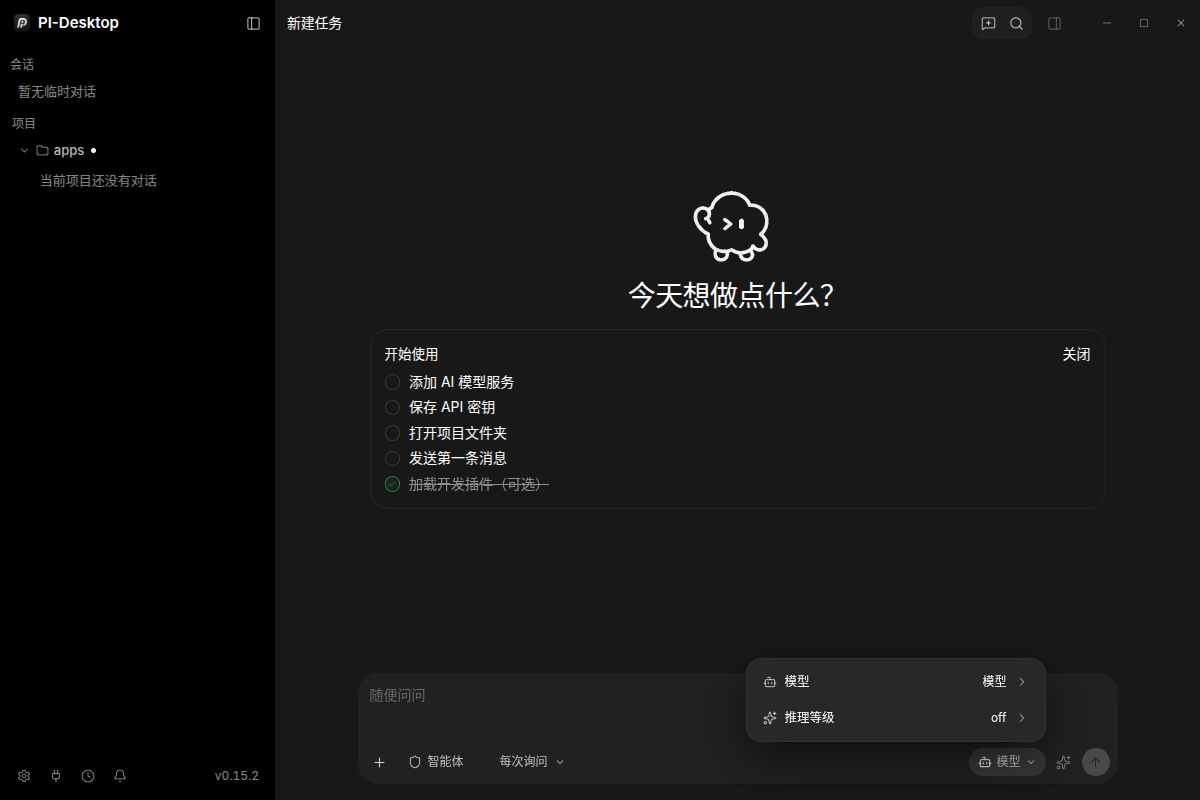
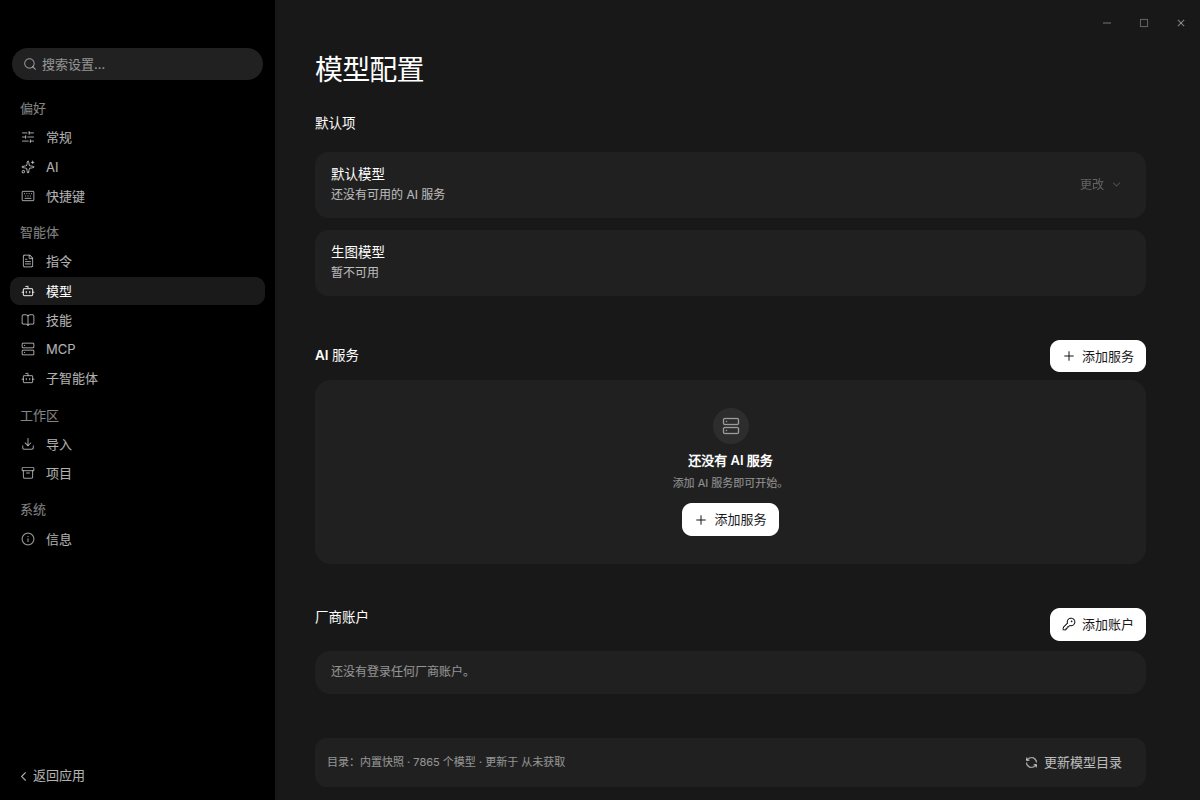
fix(m0): address review findings and complete re-verification
Verify OMP through the pinned source entry (~/.bun/bin/omp, 18.2.7 from packages/utils/package.json) instead of the user's installed 18.2.6 binary; fully isolate the OMP runtime via PI_CONFIG_DIR, PI_CODING_AGENT_DIR, and OMP_DEV_LAUNCH_DIR; isolate the desktop global .agents root via PI_DESKTOP_AGENTS_DIR.

Add a reproducible RPC verification script and models.yml fixture; re-shoot the real model-settings page and the isolated MCP page; correct the test-result wording to the full desktop suite result (2519 pass / 0 fail with SSH_ASKPASS unset).

diff --git a/docs/validation/M0-baseline.md b/docs/validation/M0-baseline.md
@@ -6,6 +6,17 @@
 
 > 本记录所有命令均为实际执行；未运行或未通过的验证已明确标注，未标记为通过。
 
+## 返修记录（复审，2026-09-22）
+
+对提交 `44441d2` 的复审发现 6 项问题，本轮逐项修复并重验；旧验证的历史事实保留在正文，更正与新增证据如下：
+
+1. **OMP 版本**（5.2 更正）：原记录误用 `command -v omp` 命中的 `/home/vv/.local/bin/omp`（用户自行安装的已编译 18.2.6 二进制）。固定源码入口是 `~/.bun/bin/omp` → `upstream/oh-my-pi/packages/coding-agent/scripts/omp` → `bun src/cli.ts`，版本来自 `packages/utils/package.json` = **18.2.7**；`~/.bun/bin/omp --version` 实测 `omp/18.2.7`。
+2. **OMP 运行环境隔离**（5.4 完成）：原运行触碰 `~/.omp/agent/agent.db` 的 WAL/SHM。返修后同时设 `PI_CONFIG_DIR=.omp-m0-dev`、`PI_CODING_AGENT_DIR=<worktree>/.dev-data/omp-dev/agent`、`OMP_DEV_LAUNCH_DIR=<worktree>/.dev-data/omp-dev/dev-cwd`，三处全部离开 `~/.omp`；`~/.omp` 零写入，未迁移/删除用户数据。
+3. **桌面全局配置隔离**（4.2 完成）：`PI_DESKTOP_DATA_DIR` 不覆盖 `~/.agents`。设 `PI_DESKTOP_AGENTS_DIR=<worktree>/.dev-data/agents`（Rust `global_agents_dir()` 读取），MCP 页仅显示受控 fixture `m0-test`，真实用户 3 台 MCP 服务器未加载。
+4. **可复现材料**（新增）：`docs/validation/M0-rpc/verify-rpc.mjs`（环境/请求序列/断言/超时/清理）+ `docs/validation/M0-rpc/models.yml`（mock fixture），`node …/verify-rpc.mjs` 退出码 0。
+5. **模型设置页**（4.3 更新）：`02-settings-models.png` 已重拍为真实“模型配置”页（默认模型/生图模型/AI 服务/厂商账户，无 AI 服务）；`02-settings.png` 重拍为隔离后的 MCP 页（仅 fixture）。
+6. **测试表述**（3.1 修正）：单文件 14 项通过不再当作完整套件通过；完整 desktop 套件 `env -u SSH_ASKPASS node --test test/*.test.mjs` 实测 2523 项 / 2519 通过 / 0 失败 / 4 跳过（退出码 0）。
+
 ## 1. 环境与版本
 
 | 项目 | 版本/事实 | 说明 |
@@ -73,13 +84,13 @@ pip install cmake ninja                       # cmake 4.4.3 / ninja 1.13.2
 根因：本机 shell 环境预设 `SSH_ASKPASS=/usr/bin/false`，测试的 SSH 传输 fixture 从父环境继承了该变量。复现与证明：
 
 ```bash
-# 失败（默认环境）
+# 完整 desktop 包测试套件（默认环境，1 项失败）
 pnpm --filter @pi-desktop/desktop test   # 2523 tests, 2518 pass, 1 fail, 4 skipped
-# 通过（去掉环境变量后）
-env -u SSH_ASKPASS node --test test/remote-host-ssh-password.test.mjs  # 14 pass, 0 fail
+# 完整 desktop 包测试套件（去掉 SSH_ASKPASS 后重跑）
+env -u SSH_ASKPASS node --test test/*.test.mjs  # 2523 tests, 2519 pass, 0 fail, 4 skipped (exit 0)
 ```
 
-结论：该失败为上游既有、受本机环境变量触发的用例，未改动源码，不计为适配回归。上游其余测试未因本阶段改动而失败。
+结论：该失败为上游既有、受本机环境变量触发的用例，未改动源码，不计为适配回归。验证范围如实标注：完整 desktop 包测试套件（2523 项）在 `env -u SSH_ASKPASS` 下全通过（2519 通过 / 0 失败 / 4 跳过）；`pnpm -r --if-present test` 因 desktop 包失败而中断，其余 workspace 包的测试未在本轮重跑（仅 desktop 包重跑并记录）。
 
 ## 4. 开发数据/凭证/更新源隔离与 UI 基线（T03）
 
@@ -97,6 +108,7 @@ env -u SSH_ASKPASS node --test test/remote-host-ssh-password.test.mjs  # 14 pass
 | 凭证存储 | `.dev-data/pi-desktop/secrets/.machine-key`（加密 secret store） | 由开发版创建 |
 | 日志/插件/窗口态 | `.dev-data/pi-desktop/{logs,plugins,window-state.json,crash-dumps,cache,scratch}` | 由开发版创建 |
 | Electron userData | `~/.config/PI-Desktop Dev` | 进程参数 `--user-data-dir=...PI-Desktop Dev` |
+| 全局 `.agents`（MCP/技能/子代理） | `PI_DESKTOP_AGENTS_DIR=/…/.dev-data/agents` | 见返修记录第 3 项；MCP 页仅显示受控 fixture `m0-test`，真实用户的 3 台 MCP 服务器未加载 |
 | 用户既有数据 | `~/.pi-desktop`（2026-09-21 22:05 起存在） | `find ~/.pi-desktop -newermt "2026-09-22 00:00"` 为空 → 本次运行零写入 |
 | 更新源 | dev（unpackaged）构建 `resolveUpdateMode` 返回 `"disabled"` | 源码 `apps/desktop/electron/main/updater.ts`；dev 无 `app-update.yml`，不自动更新 |
 
@@ -109,6 +121,7 @@ env -u SSH_ASKPASS node --test test/remote-host-ssh-password.test.mjs  # 14 pass
 ```bash
 NO_SANDBOX=1 REMOTE_DEBUGGING_PORT=9222 \
 PI_DESKTOP_DATA_DIR=/home/vv/person/code/omp-desktop-m0/.dev-data/pi-desktop \
+PI_DESKTOP_AGENTS_DIR=/home/vv/person/code/omp-desktop-m0/.dev-data/agents \
 pnpm dev
 ```
 
@@ -119,8 +132,8 @@ pnpm dev
 | 文件 | 界面 | 核对要点 |
 | --- | --- | --- |
 | `01-project-list-onboarding.png` | 项目列表 + 引导 | 侧栏“会话/项目”，项目 `apps`，引导卡“添加 AI 模型服务/保存 API 密钥/打开项目文件夹/发送第一条消息” |
-| `02-settings.png` | 设置 → MCP | 侧栏“偏好/常规/AI/快捷键/智能体/指令/模型/技能/MCP/子智能体/工作区/导入/项目/系统/信息”；MCP 全局 3 项、项目 0 项 |
-| `02-settings-models.png` | 设置 → 模型 | 模型设置页 |
+| `02-settings.png` | 设置 → MCP | 侧栏“偏好/常规/AI/快捷键/智能体/指令/模型/技能/MCP/子智能体/工作区/导入/项目/系统/信息”；MCP 全局 1 项（受控 fixture `m0-test`）、项目 0 项，真实用户服务器未加载 |
+| `02-settings-models.png` | 设置 → 模型配置 | “模型配置”页：默认模型/生图模型/AI 服务/厂商账户，显示“还没有 AI 服务”、内置目录 7865 个模型 |
 | `03-extensions.png` | 扩展 | 已安装 2 个内置插件（`pi.file-manager` v0.5.2、`pi.browser` v1.0.0），1 个可更新 |
 | `04-main-after-settings.png` | 主界面 | 返回应用后的主视图 |
 
@@ -143,17 +156,22 @@ bun setup   # scripts/setup.ts: bun install → build:native → coding-agent li
 
 过程中发现并记录：首次 `build:native` 因 PATH 缺 `~/.cargo/bin` 报 `cargo metadata failed`；补 PATH 后因缺 `cmake` 报 `opusic-sys` 构建失败；`pip install cmake ninja` 后通过。OMP 原生模块构建对系统 `cmake`/`ninja` 的依赖未在上游文档显式列出。
 
-### 5.2 版本
+### 5.2 版本（返修更正）
 
-- `omp --version` → `omp/18.2.6`
-- `packages/coding-agent/package.json` `version` → `18.2.7`（与 `source-baseline.json` 一致）
-- 差异说明：CLI 报告版本 18.2.6（最近 CHANGELOG 发布 `[18.2.6] - 2026-09-18`），package.json 为 18.2.7（未发布增量）；固定 SHA 与 baseline 一致，版本字符串来源待后续对齐。
+- 固定源码 CLI 版本来自 `packages/utils/package.json`（`dirs.ts` 中 `import { version } from "../package.json"` → `VERSION`），为 **18.2.7**。
+- `command -v omp` → `/home/vv/.local/bin/omp`（用户自行安装的已编译 18.2.6 二进制，2026-09-20 23:09），不是固定源码入口。原记录误用了该二进制，把版本记成 18.2.6。
+- 固定源码入口：`~/.bun/bin/omp` → `upstream/oh-my-pi/packages/coding-agent/scripts/omp`（`bun setup` 的 `link omp` 建立）→ `bun src/cli.ts`。
+- 用源码入口重跑：`PATH="$HOME/.bun/bin:…" ~/.bun/bin/omp --version` → `omp/18.2.7`（与 pi-utils/package.json 一致）。
 
 ### 5.3 隔离配置下的协议启动（无付费模型调用）
 
-隔离方式：`PI_CODING_AGENT_DIR=/home/vv/person/code/omp-desktop-m0/.dev-data/omp-agent`，cwd 指向 `.dev-data/omp-cwd`；在该目录写 `models.yml` 声明一个 `auth: none`、`baseUrl: http://127.0.0.1:9`（不可达）的本地 mock 模型 `m0mock/local-model`，使启动时 `session.model` 成立而不触发任何付费/网络模型调用。
+隔离方式（返修后，全量隔离，见 5.4）：可复现脚本 `docs/validation/M0-rpc/verify-rpc.mjs` + fixture `docs/validation/M0-rpc/models.yml`。脚本 spawn 固定源码入口 `~/.bun/bin/omp --mode rpc --model m0mock/local-model`，设置 `PI_CONFIG_DIR=.omp-m0-dev`、`PI_CODING_AGENT_DIR=<worktree>/.dev-data/omp-dev/agent`、`OMP_DEV_LAUNCH_DIR=<worktree>/.dev-data/omp-dev/dev-cwd`，读 `ready`、写 `negotiate_protocol`、断言响应后 SIGTERM。fixture 声明 `auth: none`、`baseUrl: http://127.0.0.1:9`（不可达）的本地 mock 模型，使 `session.model` 成立而不触发任何付费/网络模型调用。
 
-命令与脚本（Node spawn `omp --mode rpc --model m0mock/local-model`，读 stdout、写 negotiate、读响应后 SIGTERM）：
+运行（退出码 0，`PASS: ready + negotiate_protocol(v2) + get_available_models`）：
+
+```bash
+node docs/validation/M0-rpc/verify-rpc.mjs
+```
 
 关键 stdout 帧（脱敏样本，无密钥/凭证）：
 
@@ -170,21 +188,29 @@ bun setup   # scripts/setup.ts: bun install → build:native → coding-agent li
 - `get_available_models` 返回隔离目录内的 mock 模型，未访问真实提供商。
 - 全程未设置任何 API key、未发送 `prompt`，未产生付费模型调用；模型 baseUrl 指向不可达 localhost，无外呼。
 
-### 5.4 OMP 数据隔离与残留
+### 5.4 OMP 运行环境隔离（返修完成）
 
-隔离目录 `.dev-data/omp-agent/` 由本次运行创建：`agent.db`、`models.db`、`sessions/-person-code-omp-desktop-m0-.dev-data-omp-cwd`、`models.yml`。
+原运行只设 `PI_CODING_AGENT_DIR`，触碰到用户真实 `~/.omp`（`~/.omp/agent/agent.db` 的 WAL/SHM、`~/.omp/natives`、`~/.omp/run/daemons`、`~/.omp/puppeteer`、`~/.omp/.dev-cwd`）。返修后同时设置三个环境变量，全部重定向离开 `~/.omp`：
 
-残留发现（需 M2 处理）：`PI_CODING_AGENT_DIR` 仅重定向 agent 数据目录；OMP 的配置根 `~/.omp`（默认，`PI_CONFIG_DIR` 控制）仍被本次运行写入运行时/构建缓存——`~/.omp/natives/18.2.6`（原生缓存）、`~/.omp/puppeteer`、`~/.omp/run/daemons`。这些是构建/运行时缓存，非用户数据、数据库或凭证；用户既有 `~/.omp/agent/` 下的 `config.yml`、`agent.db`、`models.db`、`history.db` 文件本体 mtime 未变（仅 SQLite `-wal`/`-shm` 被守护进程短暂打开时触碰）。完全隔离需同时设置 `PI_CONFIG_DIR`（或走 XDG 迁移），列为 M2 配置隔离项。
+| 目录 | 环境变量 | 返修后位置 |
+| --- | --- | --- |
+| 配置根（natives/run/daemons/puppeteer/logs） | `PI_CONFIG_DIR=.omp-m0-dev` | `~/.omp-m0-dev/` |
+| agent 数据（agent.db/models.db/sessions/config） | `PI_CODING_AGENT_DIR` | `<worktree>/.dev-data/omp-dev/agent/` |
+| 启动目录（源码启动器默认 `~/.omp/.dev-cwd`） | `OMP_DEV_LAUNCH_DIR` | `<worktree>/.dev-data/omp-dev/dev-cwd/` |
+
+验证：`verify-rpc.mjs` 运行后，`~/.omp-m0-dev` 与 `.dev-data/omp-dev/` 由本次创建（时间戳 01:01），`agent.db`/`models.db`/`sessions`/`models.yml` 均落在隔离 agent 目录；`~/.omp` 未被本次运行写入。未迁移、删除或清理用户真实 `~/.omp` 数据。
+
+注意：源码启动器 `scripts/omp` 即使只跑 `--version` 也会创建默认 `~/.omp/.dev-cwd`（除非设 `OMP_DEV_LAUNCH_DIR`）；因此所有源码入口调用都必须带上三个隔离变量。
 
 ## 6. 未完成项与剩余风险
 
-1. 原 PI-Desktop 1 个上游测试因本机 `SSH_ASKPASS` 环境变量失败（非回归，见 3.1）。
-2. OMP 配置根 `~/.omp` 的完整隔离（`PI_CONFIG_DIR`/XDG）未在 M0 收口，见 5.4。
-3. OMP 原生模块构建对 `cmake`/`ninja` 的依赖未在上游文档显式列出（已在本机补齐）。
-4. 未做 Rust `cargo clippy`（M0 基线以 build/test/fmt 为准，clippy 属宿主行为变更时才需，本阶段未改 host-core 源码）。
-5. 平台差异：本机为 Linux x64，与规划文档假设的 macOS arm64 不同；macOS 打包与安装产物（M6）未验证。
-6. 版本字符串 `omp/18.2.6` 与 package.json `18.2.7` 的不一致待对齐。
+1. 原 PI-Desktop 1 个上游测试因本机 `SSH_ASKPASS` 环境变量失败（非回归，`env -u SSH_ASKPASS` 后完整 desktop 套件全通过，见 3.1）。
+2. OMP 原生模块构建对 `cmake`/`ninja` 的依赖未在上游文档显式列出（已在本机补齐）。
+3. 未做 Rust `cargo clippy`（M0 基线以 build/test/fmt 为准，clippy 属宿主行为变更时才需，本阶段未改 host-core 源码）。
+4. 平台差异：本机为 Linux x64，与规划文档假设的 macOS arm64 不同；macOS 打包与安装产物（M6）未验证。
+
+（返修已收口：OMP 配置根隔离与版本字符串两项均已解决，见 5.2/5.4。）
 
 ## 7. 下一阶段入口
 
-M1（T04-T07）：以本基线记录的环境（Node 24 / pnpm 10.34.5 / Bun 1.4.2 / nightly-2026-08-12 / cmake+ninja）继续；M1 先复用本节已验证的 RPC 握手，验证 rpc-ui + OMP 原有审批 wrapper/受信扩展（E01-E09），并在 `PI_CONFIG_DIR` 完整隔离后重跑配置隔离实验。
+M1（T04-T07）：以本基线记录的环境（Node 24 / pnpm 10.34.5 / Bun 1.4.2 / nightly-2026-08-12 / cmake+ninja）继续；M1 复用 `docs/validation/M0-rpc/verify-rpc.mjs` 已验证的 RPC 握手（固定源码入口 + 全量隔离），验证 rpc-ui + OMP 原有审批 wrapper/受信扩展（E01-E09）。

diff --git a/HANDOFF.md b/HANDOFF.md
@@ -41,9 +41,9 @@ OMP SHA：`d49918fab2dba3986927f2d46721629ed0f3a02c`
 - 建立专用分支 `codex/m0-baseline` 与 worktree，初始化参考子模块到固定 SHA（pi-desktop `0111e306`、oh-my-pi `d49918fab`）。
 - 准备并记录环境：Node 24、pnpm 10.34.5、Bun 1.4.2、rustc stable + nightly-2026-08-12、cmake/ninja。
 - 原 PI-Desktop 按锁文件安装依赖并完成 `build:js`、typecheck、lint、host-core 构建与测试（`cargo test -p host-core` 577 通过）。
-- 隔离开发数据/数据库/凭证/更新源并启动开发版，CDP 截取代表性界面基线。
-- OMP `bun setup` 构建成功；隔离配置下 `omp --mode rpc` 完成 `ready`/`negotiate_protocol`(v2)/`get_available_models` 协议启动，无付费模型调用。
-- 证据：`docs/validation/M0-baseline.md` 与 `docs/validation/M0-screenshots/`；任务看板 T01-T03 已标记完成。
+- 隔离开发数据/数据库/凭证/更新源（`PI_DESKTOP_DATA_DIR`）与全局 `.agents`（`PI_DESKTOP_AGENTS_DIR`），启动开发版，CDP 截取代表性界面基线。
+- OMP `bun setup` 构建成功；固定源码入口（`~/.bun/bin/omp`，版本 18.2.7）在全量隔离（`PI_CONFIG_DIR`/`PI_CODING_AGENT_DIR`/`OMP_DEV_LAUNCH_DIR`）下完成 `ready`/`negotiate_protocol`(v2)/`get_available_models` 协议启动，无付费模型调用；可复现脚本 `docs/validation/M0-rpc/verify-rpc.mjs` + fixture `models.yml`。
+- 证据：`docs/validation/M0-baseline.md`（含顶部“返修记录”）与 `docs/validation/M0-screenshots/`；任务看板 T01-T03 已标记完成。
 
 ## 3.1 仍然没有做的工作
 
@@ -57,9 +57,9 @@ OMP SHA：`d49918fab2dba3986927f2d46721629ed0f3a02c`
 
 **从 M1（T04-T07）开始，不直接改 Agent 引擎。**
 
-M0 已完成：原桌面可复现构建、开发数据隔离、UI 基线、OMP 协议启动（`ready`/`negotiate_protocol` v2）均有记录（`docs/validation/M0-baseline.md`）。环境已就绪：Node 24、pnpm 10.34.5、Bun 1.4.2、桌面 Rust stable + OMP `nightly-2026-08-12`、cmake/ninja。
+M0 已完成并通过复审返修：原桌面可复现构建、开发数据与全局 `.agents` 隔离、UI 基线、OMP 协议启动（固定源码入口 18.2.7，`ready`/`negotiate_protocol` v2）均有记录（`docs/validation/M0-baseline.md`，顶部“返修记录”列 6 项修复）。环境已就绪：Node 24、pnpm 10.34.5、Bun 1.4.2、桌面 Rust stable + OMP `nightly-2026-08-12`、cmake/ninja。
 
-M1 优先验证 rpc-ui + OMP 原有审批/受信扩展，验证不足才增加 SDK bridge。审批、取消和恢复实验通过前，不开放完整工具执行。OMP 配置根 `~/.omp` 的完整隔离（`PI_CONFIG_DIR`/XDG）需在 M1/M2 收口。
+M1 优先验证 rpc-ui + OMP 原有审批/受信扩展，验证不足才增加 SDK bridge。审批、取消和恢复实验通过前，不开放完整工具执行。OMP 运行环境隔离已在本轮收口（`PI_CONFIG_DIR`/`PI_CODING_AGENT_DIR`/`OMP_DEV_LAUNCH_DIR` 三变量），M1 沿用 `docs/validation/M0-rpc/verify-rpc.mjs` 的隔离方式。
 
 ## 5. 可直接交给执行模型
 

diff --git a/docs/04-task-board.md b/docs/04-task-board.md
@@ -51,7 +51,9 @@ T23 不阻塞仅面向 macOS arm64 的首次交付，但未通过前不能宣称
 - **T01 环境**：Node v24.14.0（nvm）、pnpm 10.34.5（corepack）、Bun 1.4.2、rustc stable 1.95.0 + nightly-2026-08-12（1.99.0-nightly）、cmake 4.4.3 + ninja 1.13.2（pip）；参考子模块浅取到固定 SHA（pi-desktop `0111e306`、oh-my-pi `d49918fab`）。
 - **T02 构建/测试**：`pnpm install --frozen-lockfile`、`build:js`、`typecheck`、`lint`、`cargo build -p host-core --locked`、`cargo test -p host-core --locked`（577 通过）、`cargo fmt --check` 均通过；`pnpm -r --if-present test` 1 项失败（`remote-host-ssh-password.test.mjs`，本机 `SSH_ASKPASS` 环境变量触发，非回归，`env -u SSH_ASKPASS` 后全通过）。
 - **T03 隔离/UI**：开发版以 `PI_DESKTOP_DATA_DIR` 隔离，`pi.sqlite`/`secrets/.machine-key`/日志/插件写入 `.dev-data/pi-desktop`，`~/.pi-desktop` 零写入，更新源 dev 构建 `disabled`；Electron 43.6.0 启动，CDP 截取项目列表/设置-MCP/模型/扩展 5 张基线截图。
-- **OMP 协议启动（M0 步骤 7，T04 前置）**：`bun setup` 成功；`omp --mode rpc` 在 `PI_CODING_AGENT_DIR` 隔离目录内输出 `ready`、`negotiate_protocol`(v2)、`get_available_models`（mock 模型，无付费模型调用）。残留：OMP 配置根 `~/.omp` 完整隔离需 `PI_CONFIG_DIR`，列入 M2。
+- **OMP 协议启动（M0 步骤 7，T04 前置）**：`bun setup` 成功；`node docs/validation/M0-rpc/verify-rpc.mjs`（固定源码入口 `~/.bun/bin/omp`，全量隔离 `PI_CONFIG_DIR`/`PI_CODING_AGENT_DIR`/`OMP_DEV_LAUNCH_DIR`）输出 `ready`、`negotiate_protocol`(v2)、`get_available_models`（mock 模型，无付费模型调用）。版本 18.2.7（来自 `packages/utils/package.json`）。
+
+> 复审返修（2026-09-22）：6 项问题已修复并重验（OMP 版本入口、OMP 运行环境隔离、桌面 `~/.agents` 隔离、可复现验证脚本+fixture、模型设置页截图、测试表述）。详见 `docs/validation/M0-baseline.md` 顶部“返修记录”。
 
 ## 单任务记录模板
 
